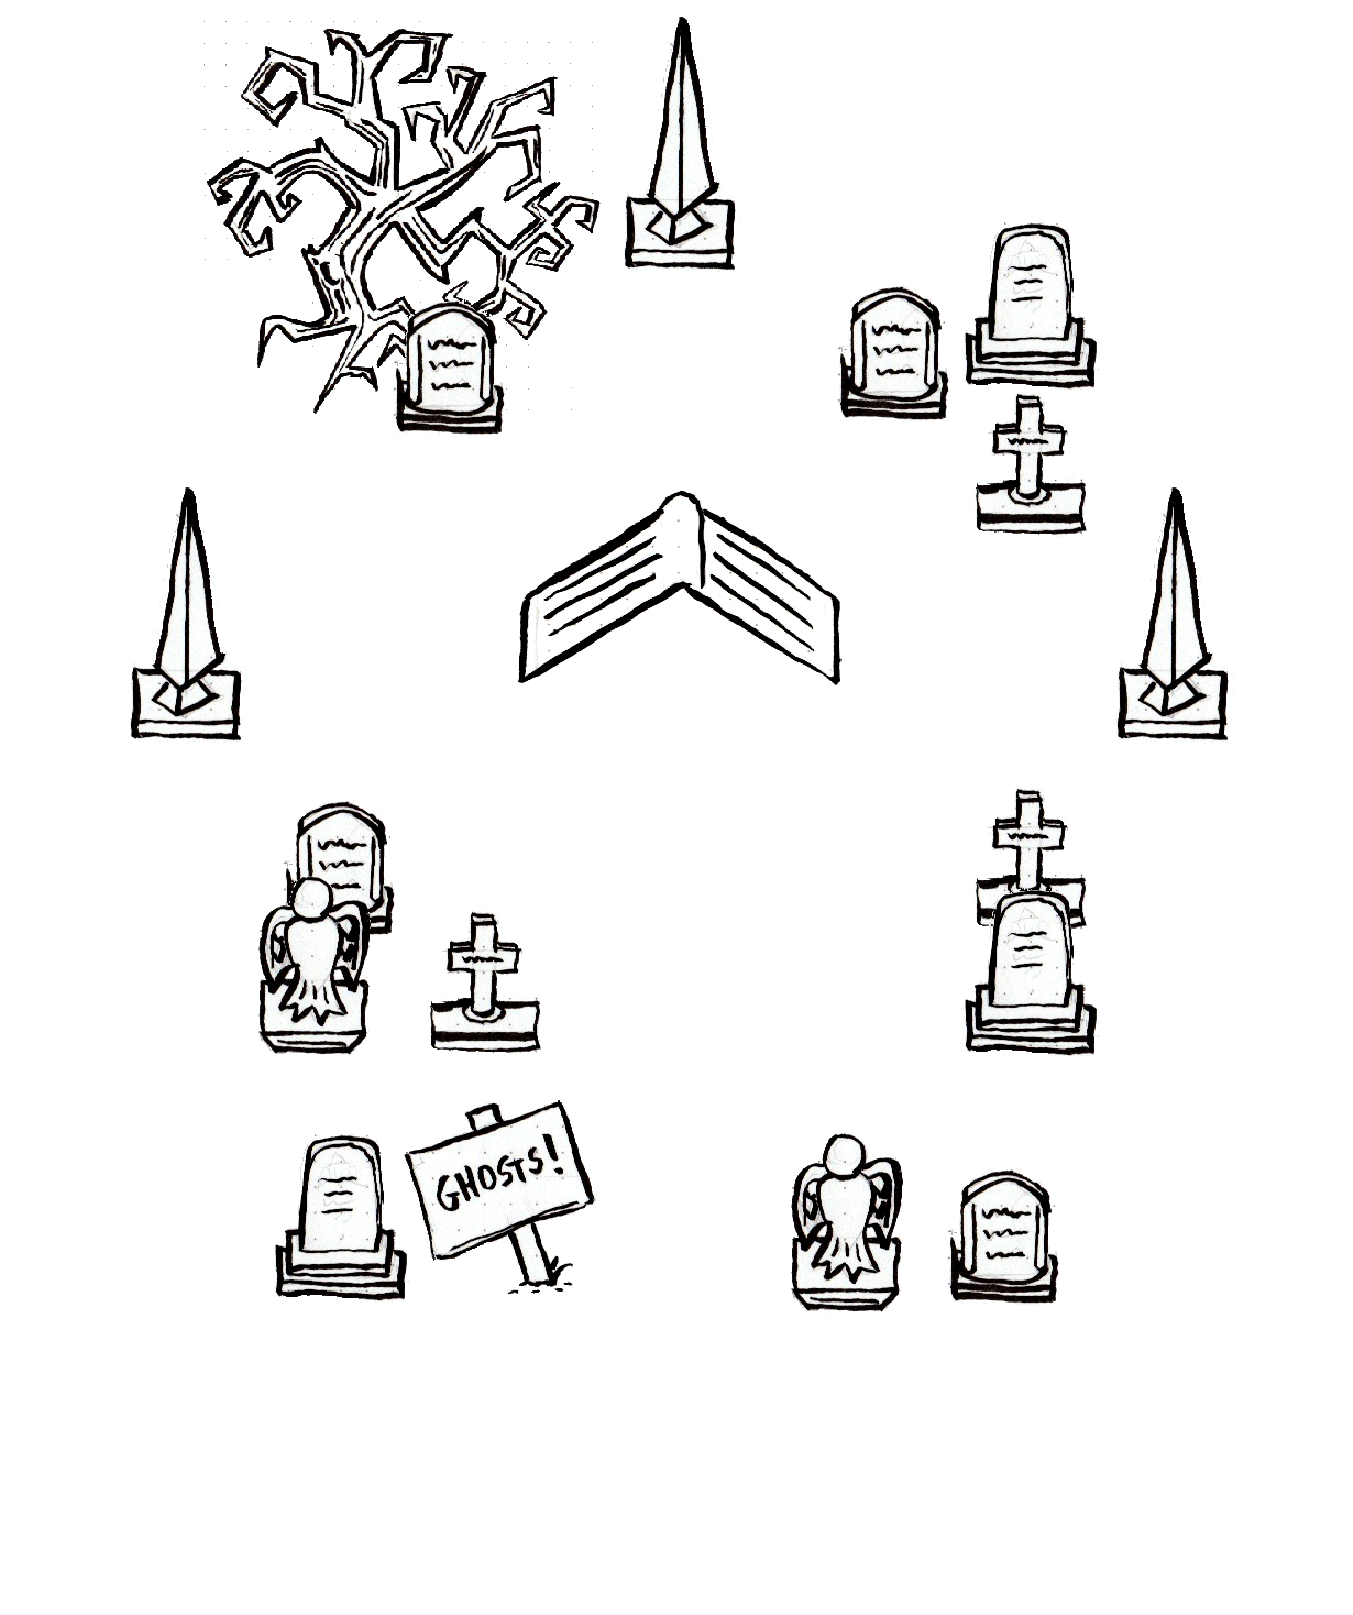
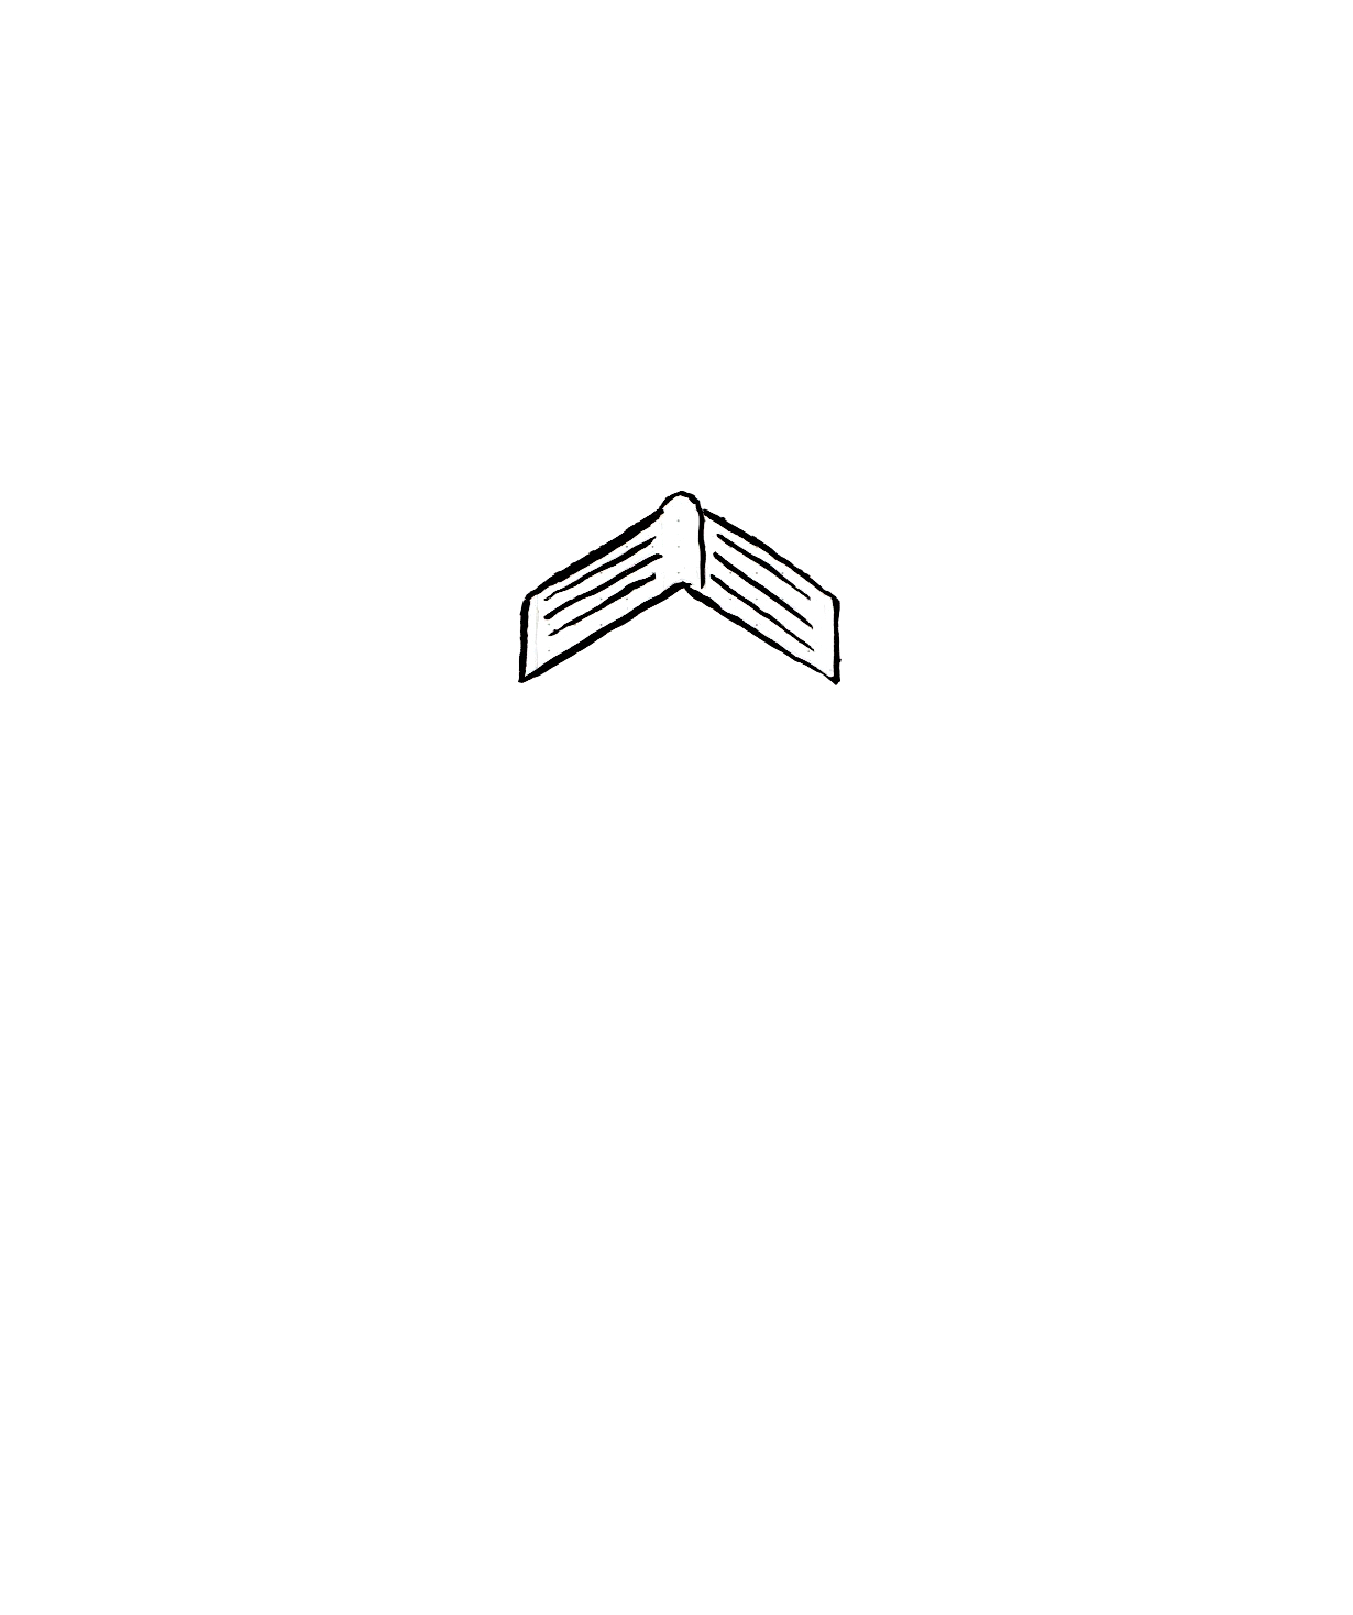
Stumps are loaded and rendered, do not yet collide

diff --git a/HallOfPresidents/src/main/java/net/culturematic/hallofpresidents/GameCharacter.java b/HallOfPresidents/src/main/java/net/culturematic/hallofpresidents/GameCharacter.java
@@ -5,7 +5,7 @@ import android.graphics.Canvas;
 import android.graphics.PointF;
 import android.graphics.Rect;
 
-public class GameCharacter implements Comparable<GameCharacter> {
+public class GameCharacter implements Figure {
     // HARDCODED LAYOUT
     // ( 0, 0) -> Standing facing down
     // ( 1, 0) -> Standing facing up
@@ -16,19 +16,24 @@ public class GameCharacter implements Comparable<GameCharacter> {
         mPosition = startPosition;
         mAnimationDistance = 0;
         mLastTime = -1;
-        mBoundsRect = new Rect();
-        mCurrentSpriteRect = null;
+        mImageBoundsRect = new Rect();
+        mCollisionBoundsRect = new Rect();
+
+        Sprites sprites = mCharacterState.getSprites();
+        if (null == sprites) {
+            mCurrentSpriteRect = EMPTY_RECT;
+        } else {
+            setCurrentStandingSprite(LevelState.Direction.DIRECTION_DOWN, 0, sprites);
+        }
     }
 
     /**
      * Sorts by y position. (That means moving characters sorts will go stale!)
-     * @param gameCharacter
-     * @return
      */
     @Override
-    public int compareTo(GameCharacter gameCharacter) {
+    public int compareTo(Figure other) {
         float myY = getPosition().y;
-        float otherY = gameCharacter.getPosition().y;
+        float otherY = other.getPosition().y;
         if (myY < otherY) {
             return -1;
         } else if (myY > otherY) {
@@ -42,7 +47,7 @@ public class GameCharacter implements Comparable<GameCharacter> {
         return mPosition;
     }
 
-    public Rect getBounds() {
+    public Rect getImageBounds() {
         int spriteWidth = mCurrentSpriteRect.width();
         int spriteHeight = mCurrentSpriteRect.height();
         int halfWidth = spriteWidth / 2;
@@ -50,9 +55,24 @@ public class GameCharacter implements Comparable<GameCharacter> {
         int xDestOffset = ((int) position.x) - halfWidth;
         int yDestOffset = ((int) position.y) - spriteHeight;
 
-        mBoundsRect.set(mCurrentSpriteRect);
-        mBoundsRect.offsetTo(xDestOffset, yDestOffset);
-        return mBoundsRect;
+        mImageBoundsRect.set(mCurrentSpriteRect);
+        mImageBoundsRect.offsetTo(xDestOffset, yDestOffset);
+        return mImageBoundsRect;
+    }
+
+    public Rect getCollisionBounds() {
+        int spriteWidth = mCurrentSpriteRect.width();
+        int spriteHeight = mCurrentSpriteRect.height();
+        int halfWidth = spriteWidth / 2;
+        int thirdHeight = spriteHeight / 3;
+        final PointF position = getPosition();
+        int left = ((int) position.x) - halfWidth;
+        int top = ((int) position.y) - thirdHeight;
+        int right = ((int) position.x) + halfWidth;
+        int bottom = (int) position.y;
+
+        mCollisionBoundsRect.set(left, top, right, bottom);
+        return mCollisionBoundsRect;
     }
 
     public Dialog getDialog() {
@@ -98,7 +118,7 @@ public class GameCharacter implements Comparable<GameCharacter> {
 
     public void drawCharacter(Canvas canvas, int viewportOffsetX, int viewportOffsetY) {
         if (! mCurrentSpriteRect.isEmpty()) {
-            Rect bounds = getBounds();
+            Rect bounds = getImageBounds();
             bounds.offset(-viewportOffsetX, -viewportOffsetY);
             canvas.drawBitmap(mCurrentBitmap, mCurrentSpriteRect, bounds, null);
         }
@@ -118,8 +138,9 @@ public class GameCharacter implements Comparable<GameCharacter> {
             return false;
         }
 
-        final int halfBoundsWidth = sprites.boundsWidth / 2;
-        final int boundsHeight = sprites.boundsHeight;
+        final Rect collisionBounds = getCollisionBounds();
+        final int halfBoundsWidth = collisionBounds.width() / 2;
+        final int boundsHeight = collisionBounds.height();
         final int halfBoundsHeight = boundsHeight / 2;
 
         boolean ret = false;
@@ -247,7 +268,8 @@ public class GameCharacter implements Comparable<GameCharacter> {
     private float mAnimationDistance;
 
     private final PointF mPosition;
-    private final Rect mBoundsRect;
+    private final Rect mImageBoundsRect;
+    private final Rect mCollisionBoundsRect;
     private final CharacterState mCharacterState;
 
     private static final Rect EMPTY_RECT = new Rect(0, 0, 0, 0);

diff --git a/HallOfPresidents/src/main/java/net/culturematic/hallofpresidents/Room.java b/HallOfPresidents/src/main/java/net/culturematic/hallofpresidents/Room.java
@@ -2,32 +2,32 @@ package net.culturematic.hallofpresidents;
 
 import android.graphics.Bitmap;
 import android.graphics.Canvas;
-import android.graphics.Color;
-import android.graphics.Paint;
 import android.graphics.PointF;
 import android.graphics.Rect;
 
 import java.util.Arrays;
 
 public class Room {
-    public Room(String name, Bitmap background, Bitmap furniture, Bitmap terrain, GameCharacter[] characters, WorldEvent[] events) {
+    public Room(String name, Bitmap background, Bitmap furniture, Bitmap terrain, Figure[] figures, WorldEvent[] events) {
         mName = name;
         mBackground = background;
         mFurniture = furniture;
         mTerrain = terrain;
         mEvents = events;
-        mCharacters = characters;
+        mFigures = figures;
         mVisionRect = new Rect();
 
-        Arrays.sort(mCharacters);
+        Arrays.sort(mFigures);
     }
 
     public String getName() { return mName; }
 
     public void update(long milliTime, LevelState levelState) {
-        for (int i = 0; i < mCharacters.length; i++) {
-            final GameCharacter character = mCharacters[i];
+        for (int i = 0; i < mFigures.length; i++) {
+            final Figure character = mFigures[i];
             character.update(milliTime, levelState);
+
+            // TODO this is bad. It's initializing things that shouldn't need to be initialized.
             character.directionCommand(
                     LevelState.Direction.DIRECTION_NONE,
                     LevelState.Direction.DIRECTION_DOWN,
@@ -63,8 +63,8 @@ public class Room {
     public void drawCharacters(Canvas canvas, Rect worldRect, GameCharacter hero) {
         final PointF heroPosition = hero.getPosition();
         boolean heroDrawn = false;
-        for (int i = 0; i < mCharacters.length; i++) {
-            final GameCharacter character = mCharacters[i];
+        for (int i = 0; i < mFigures.length; i++) {
+            final Figure character = mFigures[i];
             final PointF characterPosition = character.getPosition();
             if (characterPosition.y > heroPosition.y && !heroDrawn) {
                 hero.drawCharacter(canvas, worldRect.left, worldRect.top);
@@ -93,8 +93,8 @@ public class Room {
             return false;
         }
 
-        for (int i = 0; i < mCharacters.length; i++) {
-            final Rect rect = mCharacters[i].getBounds();
+        for (int i = 0; i < mFigures.length; i++) {
+            final Rect rect = mFigures[i].getCollisionBounds();
             if (null != rect && rect.contains(x, y)) {
                 return false;
             }
@@ -130,7 +130,7 @@ public class Room {
             }
         }
 
-        final Rect heroBounds = hero.getBounds();
+        final Rect heroBounds = hero.getImageBounds();
         int heroWidth = heroBounds.width();
         int heroHeight = heroBounds.height();
         mVisionRect.set(
@@ -140,12 +140,12 @@ public class Room {
             heroBounds.bottom + heroHeight
         );
 
-        for (int i = 0; i < mCharacters.length; i++) {
-            final GameCharacter character = mCharacters[i];
+        for (int i = 0; i < mFigures.length; i++) {
+            final Figure character = mFigures[i];
             final Dialog dialog = character.getDialog();
             if (null != dialog) {
-                final Rect characterBounds = character.getBounds();
-                if (null != character.getBounds()) {
+                final Rect characterBounds = character.getImageBounds();
+                if (null != character.getImageBounds()) {
                     if (Rect.intersects(mVisionRect, characterBounds)) {
                         int top = characterBounds.top + character.getDialogOffsetY();
                         levelState.setDialogAvailable(dialog, characterBounds.centerX(), top);
@@ -160,7 +160,7 @@ public class Room {
     private final Bitmap mFurniture;
     private final Bitmap mTerrain;
     private final WorldEvent[] mEvents;
-    private final GameCharacter[] mCharacters;
+    private final Figure[] mFigures;
     private final Rect mVisionRect;
 
     @SuppressWarnings("unused")

diff --git a/HallOfPresidents/src/main/java/net/culturematic/hallofpresidents/LevelReader.java b/HallOfPresidents/src/main/java/net/culturematic/hallofpresidents/LevelReader.java
@@ -264,20 +264,55 @@ public class LevelReader {
             events[i] = readEvent(eventsDescs.getJSONObject(i));
         }
 
-        final JSONArray charactersDesc = roomDesc.getJSONArray("characters");
-        final GameCharacter[] characters = new GameCharacter[charactersDesc.length()];
-        for (int i = 0; i < charactersDesc.length(); i++) {
-            final JSONObject nextCharacterDesc = charactersDesc.getJSONObject(i);
+        final JSONArray charactersArray = roomDesc.getJSONArray("characters");
+        final JSONArray stumpsArray = roomDesc.getJSONArray("stumps");
+
+        final int figuresLength = charactersArray.length() + stumpsArray.length();
+        final Figure[] figures = new Figure[figuresLength];
+        for (int i = 0; i < charactersArray.length(); i++) {
+            final JSONObject nextCharacterDesc = charactersArray.getJSONObject(i);
             final JSONObject positionDesc = nextCharacterDesc.getJSONObject("position");
             final PointF position = new PointF(
                     mAssetLoader.scaleInt(positionDesc.getInt("x")),
                     mAssetLoader.scaleInt(positionDesc.getInt("y"))
             );
             final CharacterState characterState = readCharacter(nextCharacterDesc, rootPath);
-            characters[i] = new GameCharacter(characterState, position);
+            figures[i] = new GameCharacter(characterState, position);
         }
 
-        return new Room(name, background, furniture, terrain, characters, events);
+        final int stumpsOffset = charactersArray.length();
+        for (int i = 0; i < stumpsArray.length(); i++) {
+            final JSONObject stumpDesc = stumpsArray.getJSONObject(i);
+            figures[i + stumpsOffset] = readStump(stumpDesc, rootPath);
+        }
+
+        return new Room(name, background, furniture, terrain, figures, events);
+    }
+
+    private Stump readStump(JSONObject stumpDesc, String rootPath)
+        throws JSONException {
+        final String sourcePath = stumpDesc.getString("source");
+        final Bitmap source = mAssetLoader.loadBitmap(rootPath + "/" + sourcePath, Bitmap.Config.RGB_565);
+        final JSONObject positionDesc = stumpDesc.getJSONObject("position");
+        final PointF position = new PointF(
+            positionDesc.getInt("x"),
+            positionDesc.getInt("y")
+        );
+        final JSONObject drawRegionDesc = stumpDesc.getJSONObject("draw_region");
+        final Rect drawRegion = new Rect(
+            drawRegionDesc.getInt("x"),
+            drawRegionDesc.getInt("y"),
+            drawRegionDesc.getInt("width"),
+            drawRegionDesc.getInt("height")
+        );
+        final JSONObject collideRegionDesc = stumpDesc.getJSONObject("collide_region");
+        final Rect collideRegion = new Rect(
+            collideRegionDesc.getInt("x"),
+            collideRegionDesc.getInt("y"),
+            collideRegionDesc.getInt("width"),
+            collideRegionDesc.getInt("height")
+        );
+        return new Stump(source, position, drawRegion, collideRegion);
     }
 
     private WorldEvent readEvent(JSONObject eventDescription)

diff --git a/HallOfPresidents/src/main/java/net/culturematic/hallofpresidents/Stump.java b/HallOfPresidents/src/main/java/net/culturematic/hallofpresidents/Stump.java
@@ -1,0 +1,91 @@
+package net.culturematic.hallofpresidents;
+
+import android.graphics.Bitmap;
+import android.graphics.Canvas;
+import android.graphics.PointF;
+import android.graphics.Rect;
+
+public class Stump implements Figure {
+    public Stump(Bitmap bitmap, PointF position, Rect drawRegion, Rect collideRegion) {
+        mBitmap = bitmap;
+        mPosition = position;
+        mDrawRegion = drawRegion;
+        mCollideRegion = collideRegion;
+        mImageBounds = new Rect(mDrawRegion);
+    }
+
+    @Override
+    public void update(long millitime, LevelState levelState) {
+        ; // Do nothing - Stumps don't change
+    }
+
+    @Override
+    public PointF getPosition() {
+        return mPosition;
+    }
+
+    @Override
+    public Rect getCollisionBounds() {
+        final PointF position = getPosition();
+        final int halfWidth = mCollideRegion.width() / 2;
+        final int height = mCollideRegion.height();
+        mCollideRegion.offsetTo(
+             ((int) position.x) - halfWidth,
+             ((int) position.y) - height
+        );
+        return mCollideRegion;
+    }
+
+    @Override
+    public Rect getImageBounds() {
+        final PointF position = getPosition();
+        final int halfWidth = mImageBounds.width() / 2;
+        final int height = mImageBounds.height();
+        mImageBounds.offsetTo(
+            ((int) position.x) - halfWidth,
+            ((int) position.y) - height
+        );
+        return mImageBounds;
+    }
+
+    @Override
+    public Dialog getDialog() {
+        return null;
+    }
+
+    @Override
+    public int getDialogOffsetY() {
+        return 0;
+    }
+
+    @Override
+    public void directionCommand(LevelState.Direction direction, LevelState.Direction facing, Room currentRoom) {
+        ; // Do nothing, this method shouldn't even be here.
+    }
+
+    @Override
+    public void drawCharacter(Canvas canvas, int viewportOffsetX, int viewportOffsetY) {
+        Rect bounds = getImageBounds();
+        bounds.offset(-viewportOffsetX, -viewportOffsetY);
+        canvas.drawBitmap(mBitmap, mDrawRegion, bounds, null);
+    }
+
+    private final Bitmap mBitmap;
+    private final PointF mPosition;
+    private final Rect mDrawRegion;
+    private final Rect mImageBounds;
+    private final Rect mCollideRegion;
+
+    @Override
+    public int compareTo(Figure other) {
+        float myY = getPosition().y;
+        float otherY = other.getPosition().y;
+        if (myY < otherY) {
+            return -1;
+        } else if (myY > otherY) {
+            return 1;
+        } else {
+            return 0;
+        }
+    }
+}

diff --git a/HallOfPresidents/src/main/java/net/culturematic/hallofpresidents/Figure.java b/HallOfPresidents/src/main/java/net/culturematic/hallofpresidents/Figure.java
@@ -1,0 +1,26 @@
+package net.culturematic.hallofpresidents;
+
+import android.graphics.Canvas;
+import android.graphics.PointF;
+import android.graphics.Rect;
+
+public interface Figure extends Comparable<Figure> {
+    /**
+     * Update the figure state in the room, given the new circumstances of this tick.
+     * @param millitime
+     * @param levelState
+     */
+    public void update(long millitime, LevelState levelState);
+
+    public PointF getPosition();
+    public Rect getCollisionBounds();
+    public Rect getImageBounds();
+    public Dialog getDialog();
+    public int getDialogOffsetY();
+
+    // TODO REMOVE - THIS SHOULD BE HIDDEN AND CALLED BY A DRIVER
+    public void directionCommand(LevelState.Direction direction, LevelState.Direction facing, Room currentRoom);
+
+    // TODO RENAME to draw
+    public void drawCharacter(Canvas canvas, int worldOffsetX, int worldOffsetY);
+}
